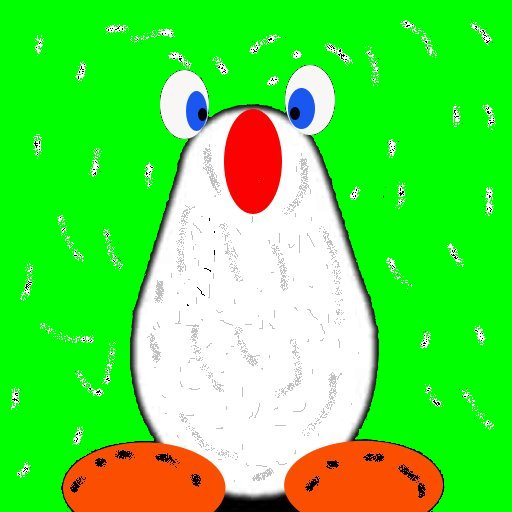
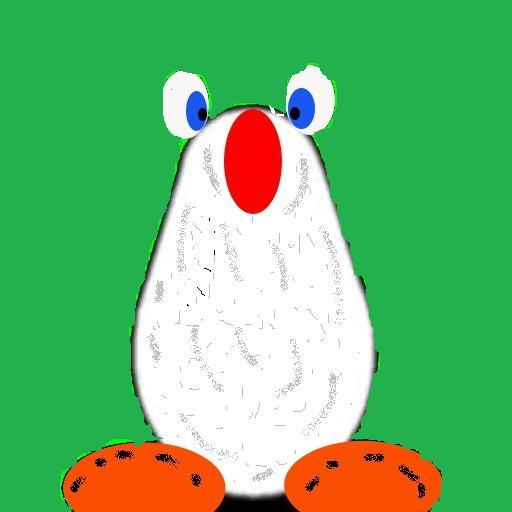
Change mallage.

diff --git a/src/simu.py b/src/simu.py
@@ -109,6 +109,10 @@ class Effaye(Activite):
             self.objet.repere.orienter(angle)
             self.objet.avancer(0.1)
 
+    def start(self):
+        self.objet.maillage = visu.Obj(url="data/avatars/vert.obj")
+        Activite.start(self)
+
 
 class Aggressif(Activite):
 
@@ -129,6 +133,10 @@ class Aggressif(Activite):
                 else:
                     pass
 
+    def start(self):
+        self.objet.maillage = visu.Obj(url="data/avatars/rouge.obj")
+        Activite.start(self)
+
 
 class Curieux(Activite):
 
@@ -140,6 +148,10 @@ class Curieux(Activite):
                 x = random.random()
                 if x < 0.1:
                     self.objet.avancer(0.5)
+
+    def start(self):
+        self.objet.maillage = visu.Obj(url="data/avatars/bleu.obj")
+        Activite.start(self)
 
 
 class Pose(Activite):
